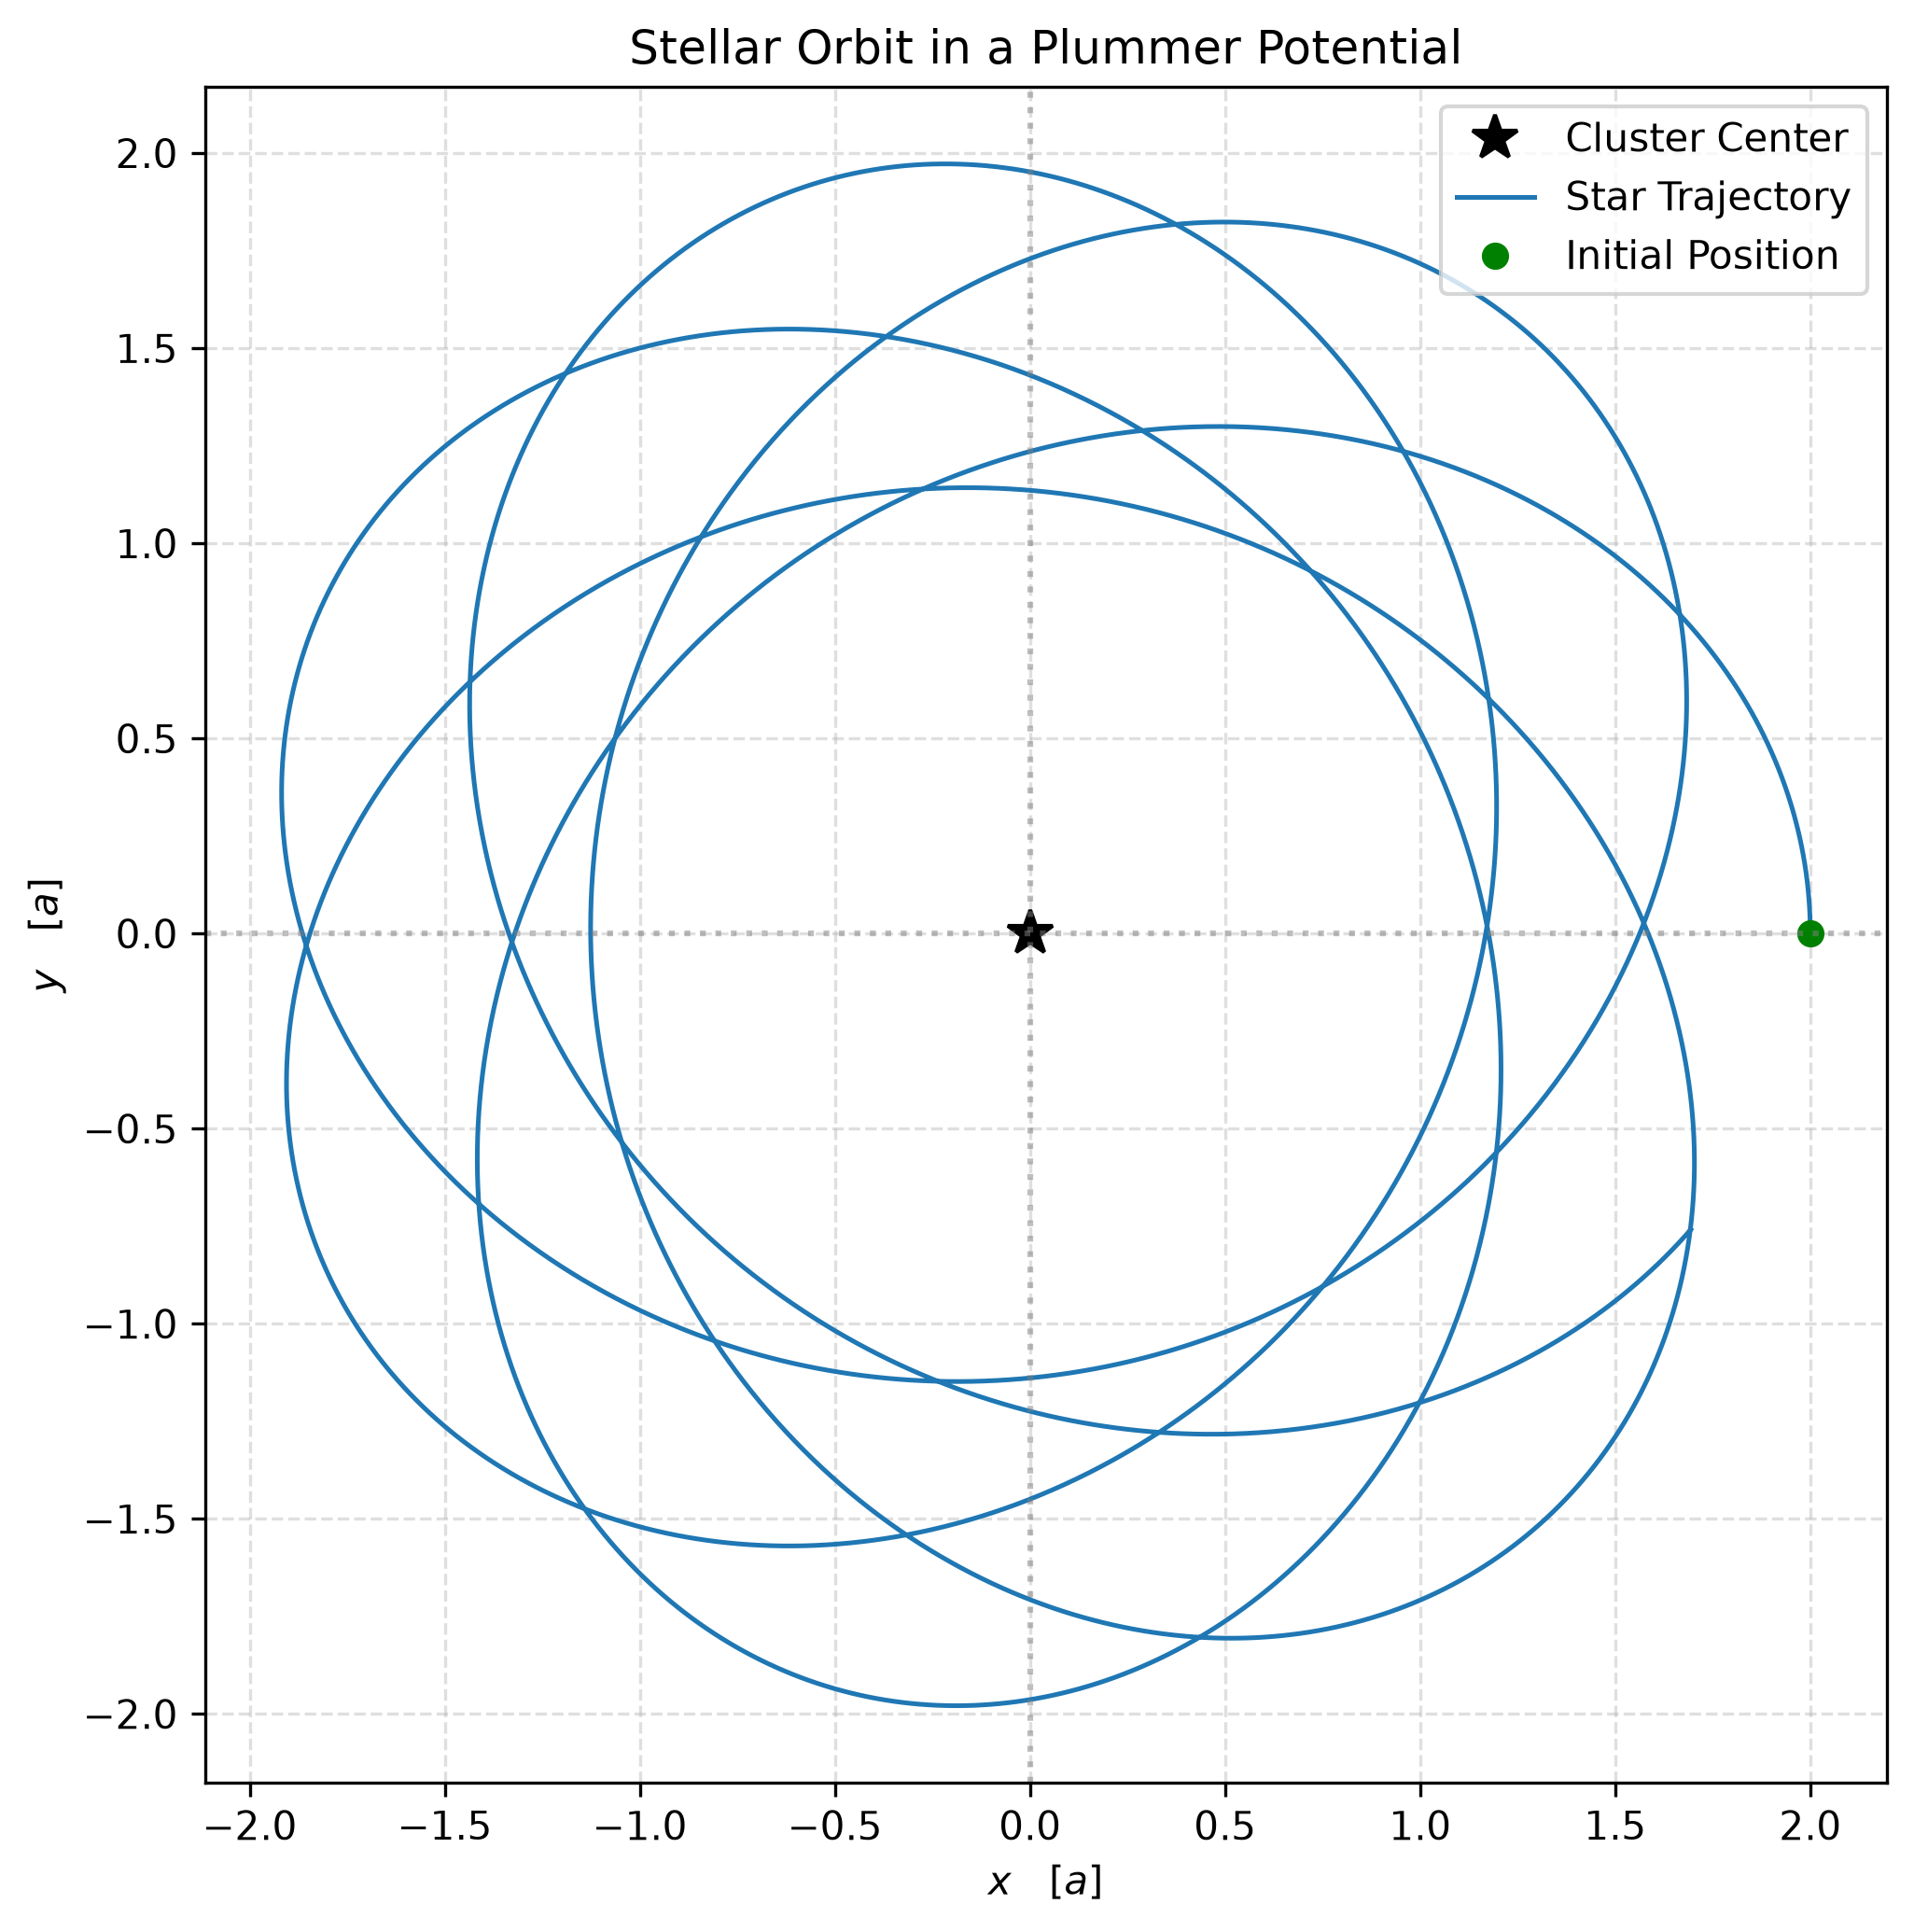
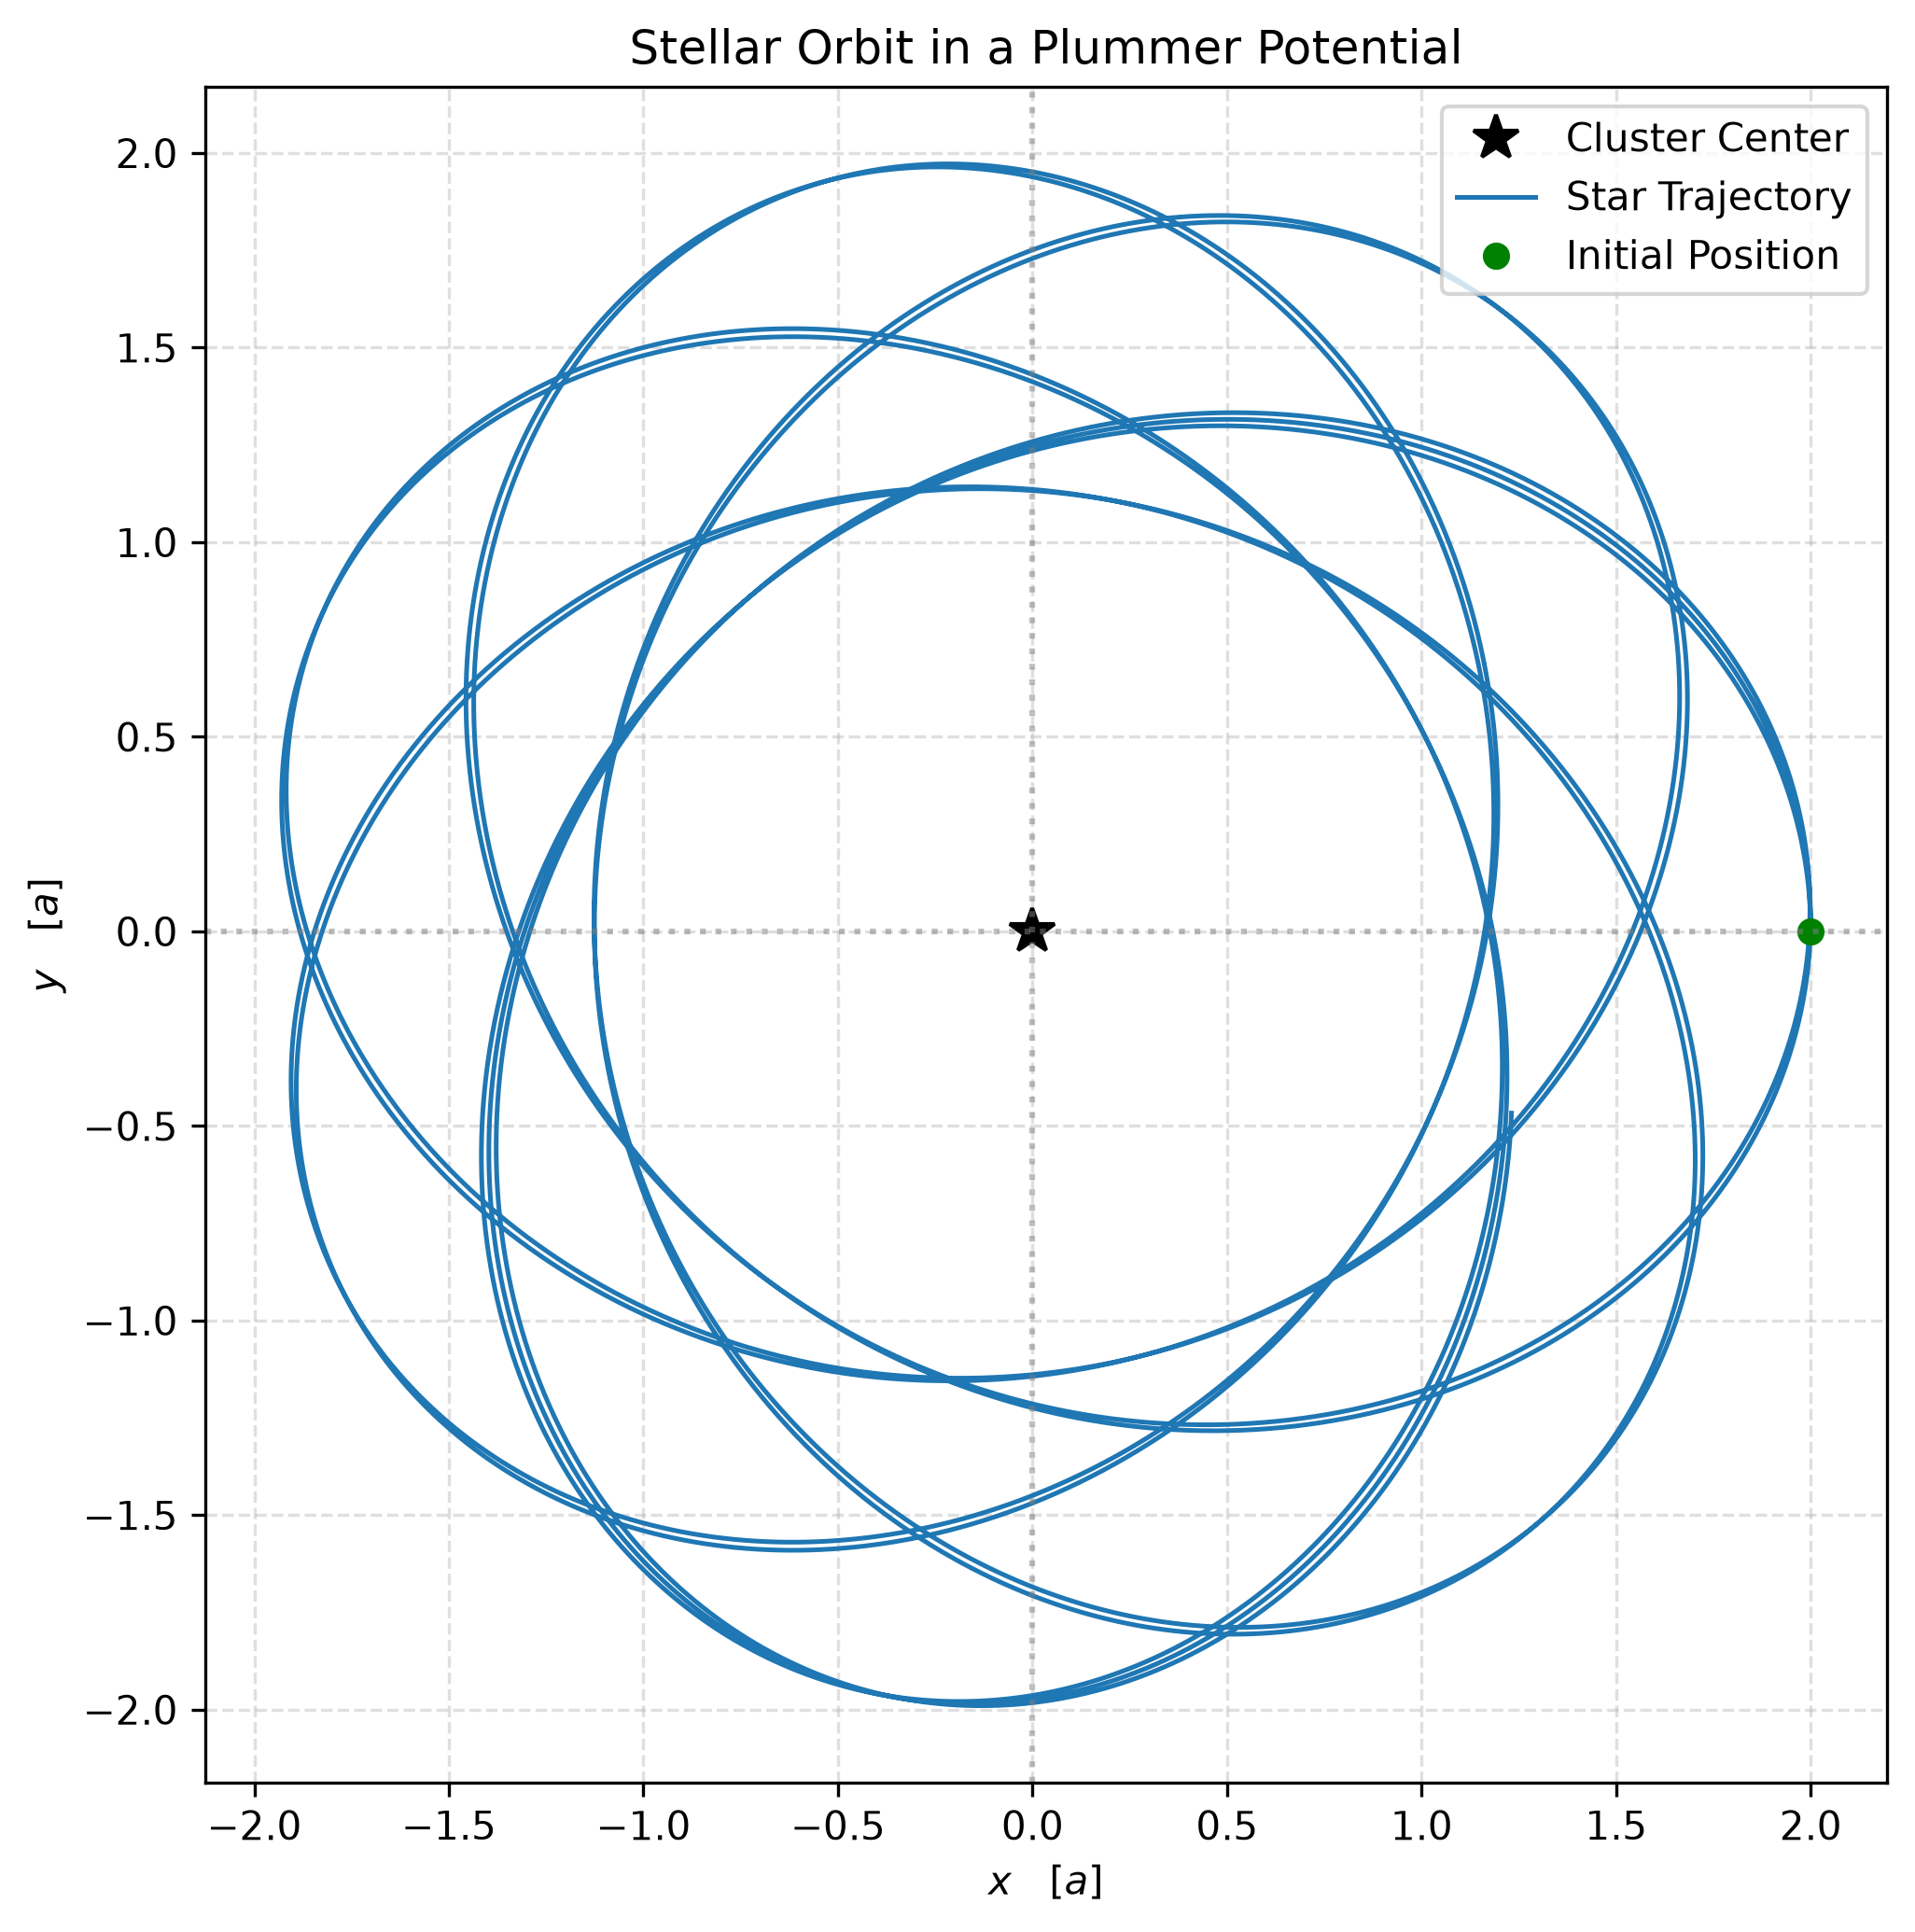
Energy plot added

diff --git a/src/galactic_dynamics/simulation_1/main.py b/src/galactic_dynamics/simulation_1/main.py
@@ -5,7 +5,15 @@ import os
 script_dir = os.path.dirname(os.path.abspath(__file__))
 
 # =============================================================================
-# 1. Plummer Acceleration Model
+# Plummer Potential
+# =============================================================================
+def phi(x, y, G=1.0, M=1.0, scale_a=1.0):
+    """Calculates Plummer potential."""
+    r_soft_sq = x**2 + y**2 + scale_a**2
+    return -G * M / (r_soft_sq)**(0.5)
+
+# =============================================================================
+# Plummer Acceleration Model
 # =============================================================================
 def acceleration(x, y, G=1.0, M=1.0, scale_a=1.0):
     """Calculates Plummer acceleration components ax, ay."""
@@ -14,7 +22,7 @@ def acceleration(x, y, G=1.0, M=1.0, scale_a=1.0):
     return prefactor * x, prefactor * y
 
 # =============================================================================
-# 2. State Derivative Function (dS/dt)
+# State Derivative Function (dS/dt)
 # =============================================================================
 def state_derivatives(state, G=1.0, M=1.0, scale_a=1.0):
     """
@@ -25,7 +33,7 @@ def state_derivatives(state, G=1.0, M=1.0, scale_a=1.0):
     return np.array([vx, vy, ax, ay])
 
 # =============================================================================
-# 3. Fourth-Order Runge-Kutta Step (RK4)
+# Fourth-Order Runge-Kutta Step (RK4)
 # =============================================================================
 def rk4_step(state, dt, G=1.0, M=1.0, scale_a=1.0):
     """Advances state by time dt using RK4 integration."""
@@ -37,14 +45,24 @@ def rk4_step(state, dt, G=1.0, M=1.0, scale_a=1.0):
     return state + (dt / 6.0) * (k1 + 2.0*k2 + 2.0*k3 + k4)
 
 # =============================================================================
-# 4. Main Simulation & Orbit Integration
+# Fourth-Order Runge-Kutta Step (RK4)
+# =============================================================================
+def energy(state, G=1.0, M=1.0, scale_a=1.0):
+    """Advances state by time dt using RK4 integration."""
+    x, y, vx, vy = state
+
+    return 0.5 * (vx**2 + vy**2) + phi(x, y, G, M, scale_a)
+
+
+# =============================================================================
+# Main Simulation & Orbit Integration
 # =============================================================================
 def run_simulation():
     # Parameters
     G, M, scale_a = 1.0, 1.0, 1.0
     
     # Time settings
-    n_steps = 8000
+    n_steps = 18000
     dt = 0.01
     t_max = n_steps * dt  # Total simulated time = 10.0
     
@@ -63,19 +81,37 @@ def run_simulation():
     # Arrays to store orbit trajectory for plotting
     x_history = np.zeros(n_steps)
     y_history = np.zeros(n_steps)
+    energy_history = np.zeros(n_steps)
     
     # Time Integration Loop
     for i in range(n_steps):
         x_history[i] = current_state[0]
         y_history[i] = current_state[1]
-        
+        energy_history[i] = energy(current_state, G, M, scale_a)
         current_state = rk4_step(current_state, dt, G, M, scale_a)
         
-    return x_history, y_history
+    return x_history, y_history, energy_history
 
 # =============================================================================
 # 5. Plotting & Saving to Disk
 # =============================================================================
+def plot_energy(energy_history, filename="./energy.png"):
+    # Relative energy error relative to initial value E_0
+    rel_energy_error = (energy_history - energy_history[0]) / abs(energy_history[0])
+
+    # Save to disk
+    saved_filename = os.path.join(script_dir, filename)
+
+    plt.figure(figsize=(8, 4), dpi=150)
+    plt.plot(rel_energy_error, color='crimson', lw=1.2)
+    plt.xlabel("Step")
+    plt.ylabel(r"$(E(t) - E_0) / |E_0|$")
+    plt.title("RK4 Relative Energy Conservation Drift")
+    plt.grid(True, linestyle="--", alpha=0.5)
+    plt.savefig(saved_filename, bbox_inches='tight')
+    plt.close()
+    print(f"Plot successfully saved as '{saved_filename}'")
+
 def plot_and_save(x, y, filename="./plummer_orbit.png"):
     plt.figure(figsize=(7, 7), dpi=300)
     
@@ -97,15 +133,17 @@ def plot_and_save(x, y, filename="./plummer_orbit.png"):
     plt.legend(loc="upper right")
 
     # Save to disk
+    saved_filename = os.path.join(script_dir, filename)
+
     plt.tight_layout()
-    plt.savefig(os.path.join(script_dir, filename), bbox_inches='tight')
+    plt.savefig(saved_filename, bbox_inches='tight')
     plt.close()
-    print(f"Plot successfully saved as '{filename}'")
+    print(f"Plot successfully saved as '{saved_filename}'")
 
 def run():
     """Run simulation 1."""
     print("Run simulation 1")
 
-    x_traj, y_traj = run_simulation()
+    x_traj, y_traj, energy_traj = run_simulation()
     plot_and_save(x_traj, y_traj)
-    
+    plot_energy(energy_traj)